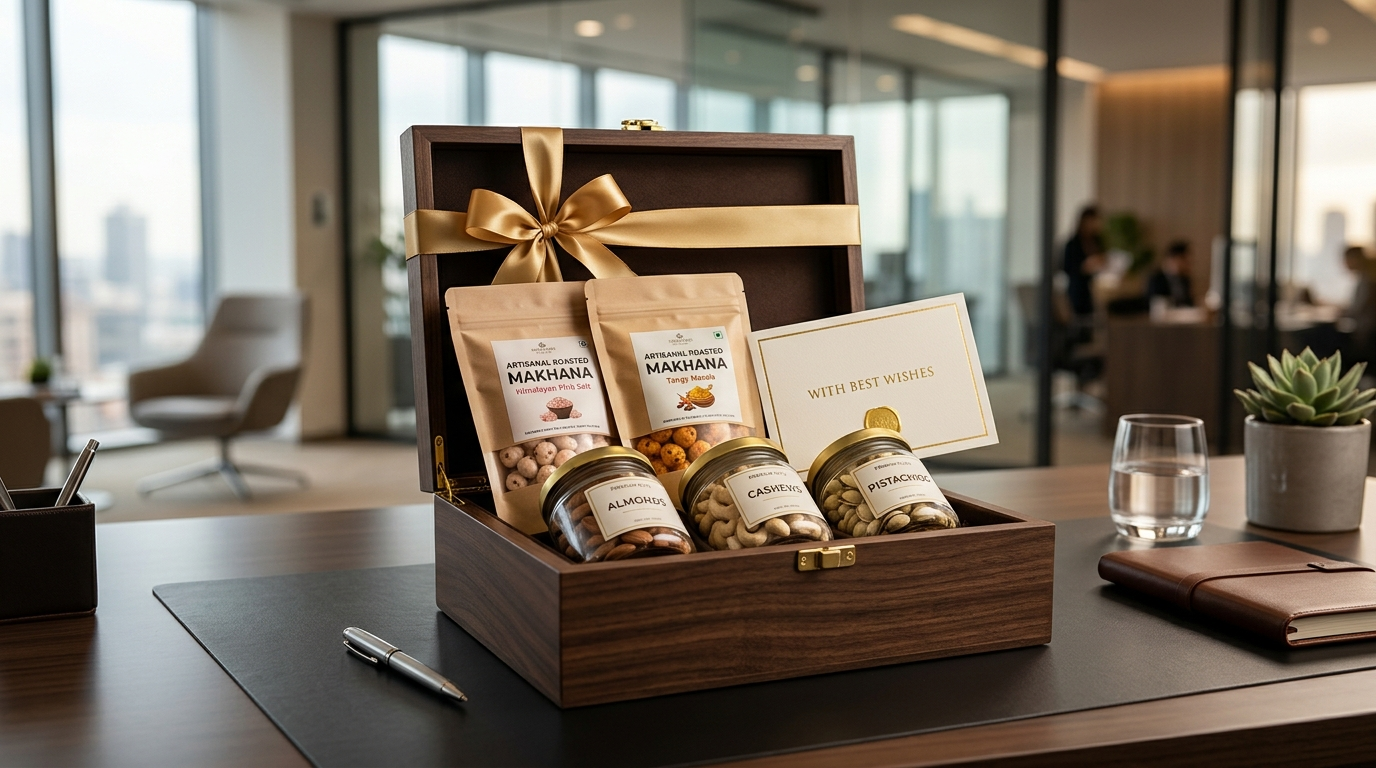
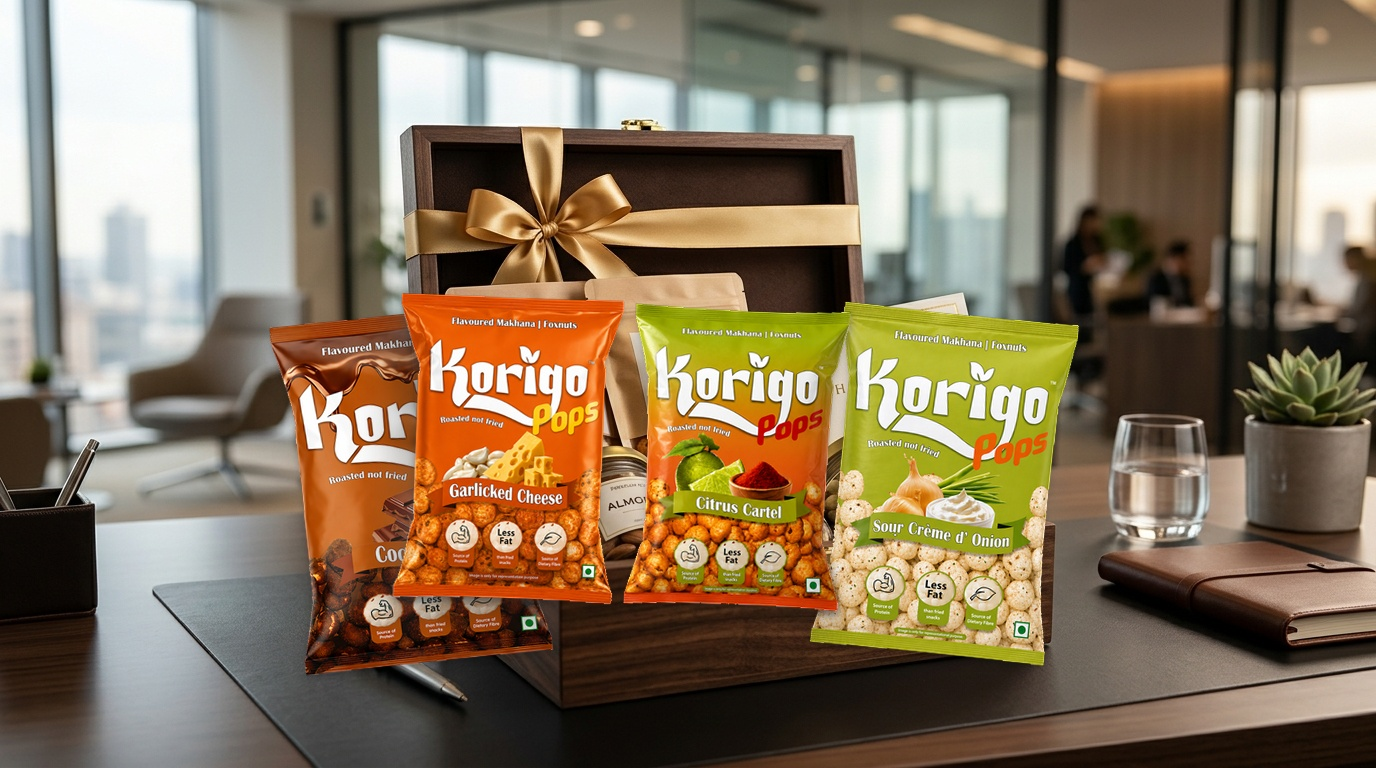
feat: feature authentic Korigo packets in blog images for 3rd Nov and 20th Oct

Changed region(s): [[0.1875, 0.375, 0.7812, 0.875]]

diff --git a/scripts/build_final_korigo_images.py b/scripts/build_final_korigo_images.py
@@ -1,0 +1,132 @@
+import os
+from PIL import Image, ImageFilter, ImageEnhance
+import numpy as np
+
+def create_photorealistic_shadow(alpha_mask, light_angle_deg=-45, distance=20, blur_radius=18, max_opacity=0.50):
+    w, h = alpha_mask.size
+    pad = blur_radius * 2 + distance
+    
+    rad = np.radians(light_angle_deg + 180)
+    dx = int(distance * np.cos(rad))
+    dy = int(distance * np.sin(rad))
+    
+    shadow_canvas = Image.new("RGBA", (w + pad * 2, h + pad * 2), (0, 0, 0, 0))
+    cast_shadow = Image.new("RGBA", (w, h), (18, 20, 24, int(255 * max_opacity)))
+    cast_shadow.putalpha(ImageEnhance.Brightness(alpha_mask).enhance(max_opacity))
+    
+    shadow_canvas.paste(cast_shadow, (pad + dx, pad + dy), cast_shadow)
+    soft_shadow = shadow_canvas.filter(ImageFilter.GaussianBlur(blur_radius))
+    
+    contact_canvas = Image.new("RGBA", (w + pad * 2, h + pad * 2), (0, 0, 0, 0))
+    contact_shadow = Image.new("RGBA", (w, h), (12, 14, 18, int(255 * 0.70)))
+    contact_shadow.putalpha(ImageEnhance.Brightness(alpha_mask).enhance(0.70))
+    contact_canvas.paste(contact_shadow, (pad, pad + 4), contact_shadow)
+    tight_contact = contact_canvas.filter(ImageFilter.GaussianBlur(4))
+    
+    combined = Image.alpha_composite(soft_shadow, tight_contact)
+    return combined, pad
+
+def place_packet(layer, img_path, target_h, angle_deg, pos_xy, shadow_params=None):
+    pack = Image.open(img_path).convert('RGBA')
+    aspect = pack.width / pack.height
+    target_w = int(target_h * aspect)
+    resized = pack.resize((target_w, target_h), Image.Resampling.LANCZOS)
+    
+    if angle_deg != 0:
+        rotated = resized.rotate(angle_deg, resample=Image.Resampling.BICUBIC, expand=True)
+    else:
+        rotated = resized
+        
+    x, y = pos_xy
+    if shadow_params:
+        shadow, pad = create_photorealistic_shadow(
+            rotated.getchannel('A'),
+            light_angle_deg=shadow_params.get('light_angle', -45),
+            distance=shadow_params.get('distance', 18),
+            blur_radius=shadow_params.get('blur', 16),
+            max_opacity=shadow_params.get('opacity', 0.50)
+        )
+        layer.paste(shadow, (x - pad, y - pad), shadow)
+        
+    layer.paste(rotated, (x, y), rotated)
+
+def generate_travel_blog_image():
+    base = Image.open('public/assets/korigo/blogs/healthy-travel-snacks.jpg').convert('RGBA')
+    layer = Image.new('RGBA', base.size, (0, 0, 0, 0))
+    
+    # In travel shot, window light is from right side. Light angle = 45 deg (casts shadow towards bottom-left).
+    shadow_cfg_bg = {'light_angle': 45, 'distance': 22, 'blur': 18, 'opacity': 0.45}
+    shadow_cfg_fg = {'light_angle': 45, 'distance': 24, 'blur': 20, 'opacity': 0.50}
+    
+    # 1. Citrus Cartel (behind, slightly smaller, angled right)
+    place_packet(
+        layer,
+        'public/assets/korigo/products/transparent_citrus_cartel.png',
+        target_h=420,
+        angle_deg=5,
+        pos_xy=(370, 275),
+        shadow_params=shadow_cfg_bg
+    )
+    
+    # 2. Sour Creme d' Onion (in front, prominent, angled left)
+    place_packet(
+        layer,
+        'public/assets/korigo/products/transparent_creme_onion.png',
+        target_h=465,
+        angle_deg=-4,
+        pos_xy=(195, 250),
+        shadow_params=shadow_cfg_fg
+    )
+    
+    result = Image.alpha_composite(base, layer).convert('RGB')
+    target = 'public/assets/korigo/blogs/healthy-travel-snacks.jpg'
+    result.save(target, quality=95)
+    print(f"Generated travel blog image: {target} ({result.size})")
+
+def generate_corporate_blog_image():
+    base = Image.open('public/assets/korigo/blogs/healthy-corporate-gifts.jpg').convert('RGBA')
+    layer = Image.new('RGBA', base.size, (0, 0, 0, 0))
+    
+    # Light from top-left. Light angle = -45 deg (casts shadow towards bottom-right).
+    shadow_cfg_left = {'light_angle': -45, 'distance': 18, 'blur': 16, 'opacity': 0.45}
+    shadow_cfg_right = {'light_angle': -45, 'distance': 20, 'blur': 18, 'opacity': 0.45}
+    shadow_cfg_center = {'light_angle': -45, 'distance': 24, 'blur': 22, 'opacity': 0.55}
+    
+    # 1. Left pack: Coco Island leaning on the left side of the hamper
+    place_packet(
+        layer,
+        'public/assets/korigo/products/transparent_coco_island.png',
+        target_h=410,
+        angle_deg=6,
+        pos_xy=(185, 260),
+        shadow_params=shadow_cfg_left
+    )
+    
+    # 2. Right pack: Sour Creme d' Onion on the right side
+    place_packet(
+        layer,
+        'public/assets/korigo/products/transparent_creme_onion.png',
+        target_h=390,
+        angle_deg=-6,
+        pos_xy=(730, 270),
+        shadow_params=shadow_cfg_right
+    )
+    
+    # 3. Centerpiece: Korigo Makhana Combo Pack (Garlicked Cheese + Citrus Cartel duo)
+    place_packet(
+        layer,
+        'public/assets/korigo/combos/transparent_garlc_citrus.png',
+        target_h=475,
+        angle_deg=-2,
+        pos_xy=(375, 215),
+        shadow_params=shadow_cfg_center
+    )
+    
+    result = Image.alpha_composite(base, layer).convert('RGB')
+    target = 'public/assets/korigo/blogs/healthy-corporate-gifts.jpg'
+    result.save(target, quality=95)
+    print(f"Generated corporate blog image: {target} ({result.size})")
+
+if __name__ == '__main__':
+    generate_travel_blog_image()
+    generate_corporate_blog_image()

diff --git a/scripts/update_wp_images.py b/scripts/update_wp_images.py
@@ -1,0 +1,66 @@
+import os
+import requests
+import json
+
+WP_URL = 'https://backend-korigo.sampledomain.online'
+AUTH = ('bot.admin', 'lG4t c3fM vado 1JBz Hla8 ibrS')
+
+TARGET_DIR = r"d:\SOFTWARE DEVELOPMENT\KORIGO SNACKS\public\assets\korigo\blogs"
+
+def upload_image(filename):
+    file_path = os.path.join(TARGET_DIR, filename)
+    url = f"{WP_URL}/wp-json/wp/v2/media"
+    headers = {
+        'Content-Disposition': f'attachment; filename="{filename}"',
+        'Content-Type': 'image/jpeg'
+    }
+    with open(file_path, 'rb') as f:
+        data = f.read()
+    r = requests.post(url, auth=AUTH, headers=headers, data=data)
+    if r.status_code in [200, 201]:
+        res = r.json()
+        print(f"  [OK] Uploaded {filename} -> Media ID: {res['id']}, URL: {res['source_url']}")
+        return res['id'], res['source_url']
+    else:
+        print(f"  [FAIL] Upload {filename}: {r.status_code} - {r.text[:200]}")
+        return None, None
+
+def main():
+    # 1. Upload healthy-travel-snacks.jpg
+    print("Uploading updated travel snack image with Korigo packets...")
+    travel_media_id, travel_url = upload_image("healthy-travel-snacks.jpg")
+    
+    # 2. Upload healthy-corporate-gifts.jpg
+    print("Uploading updated corporate gifts image with Korigo packets...")
+    corp_media_id, corp_url = upload_image("healthy-corporate-gifts.jpg")
+    
+    # Update post 171 (travel)
+    if travel_media_id:
+        r = requests.post(f"{WP_URL}/wp-json/wp/v2/posts/171", auth=AUTH, json={"featured_media": travel_media_id})
+        print(f"Post 171 update: {r.status_code}")
+        
+    # Update post 170 (corporate)
+    if corp_media_id:
+        r = requests.post(f"{WP_URL}/wp-json/wp/v2/posts/170", auth=AUTH, json={"featured_media": corp_media_id})
+        print(f"Post 170 update: {r.status_code}")
+        
+    # Update posts_cache.json
+    cache_path = r"src/lib/wordpress/posts_cache.json"
+    with open(cache_path, 'r', encoding='utf-8') as f:
+        posts = json.load(f)
+        
+    for p in posts:
+        if p['id'] == 171 and travel_url:
+            p['featured_media'] = travel_media_id
+            p['featured_media_url'] = travel_url
+        elif p['id'] == 170 and corp_url:
+            p['featured_media'] = corp_media_id
+            p['featured_media_url'] = corp_url
+            
+    with open(cache_path, 'w', encoding='utf-8') as f:
+        json.dump(posts, f, indent=2, ensure_ascii=False)
+        
+    print("Updated posts_cache.json successfully!")
+
+if __name__ == '__main__':
+    main()

diff --git a/scripts/html_generator.py b/scripts/html_generator.py
@@ -317,3 +317,4 @@ if __name__ == "__main__":
         print(f"Rendered: {res['title']}")
         print(f"  Slug: {res['slug']}, Date: {res['date']}")
         print(f"  HTML len: {len(res['content'])} chars")
+
